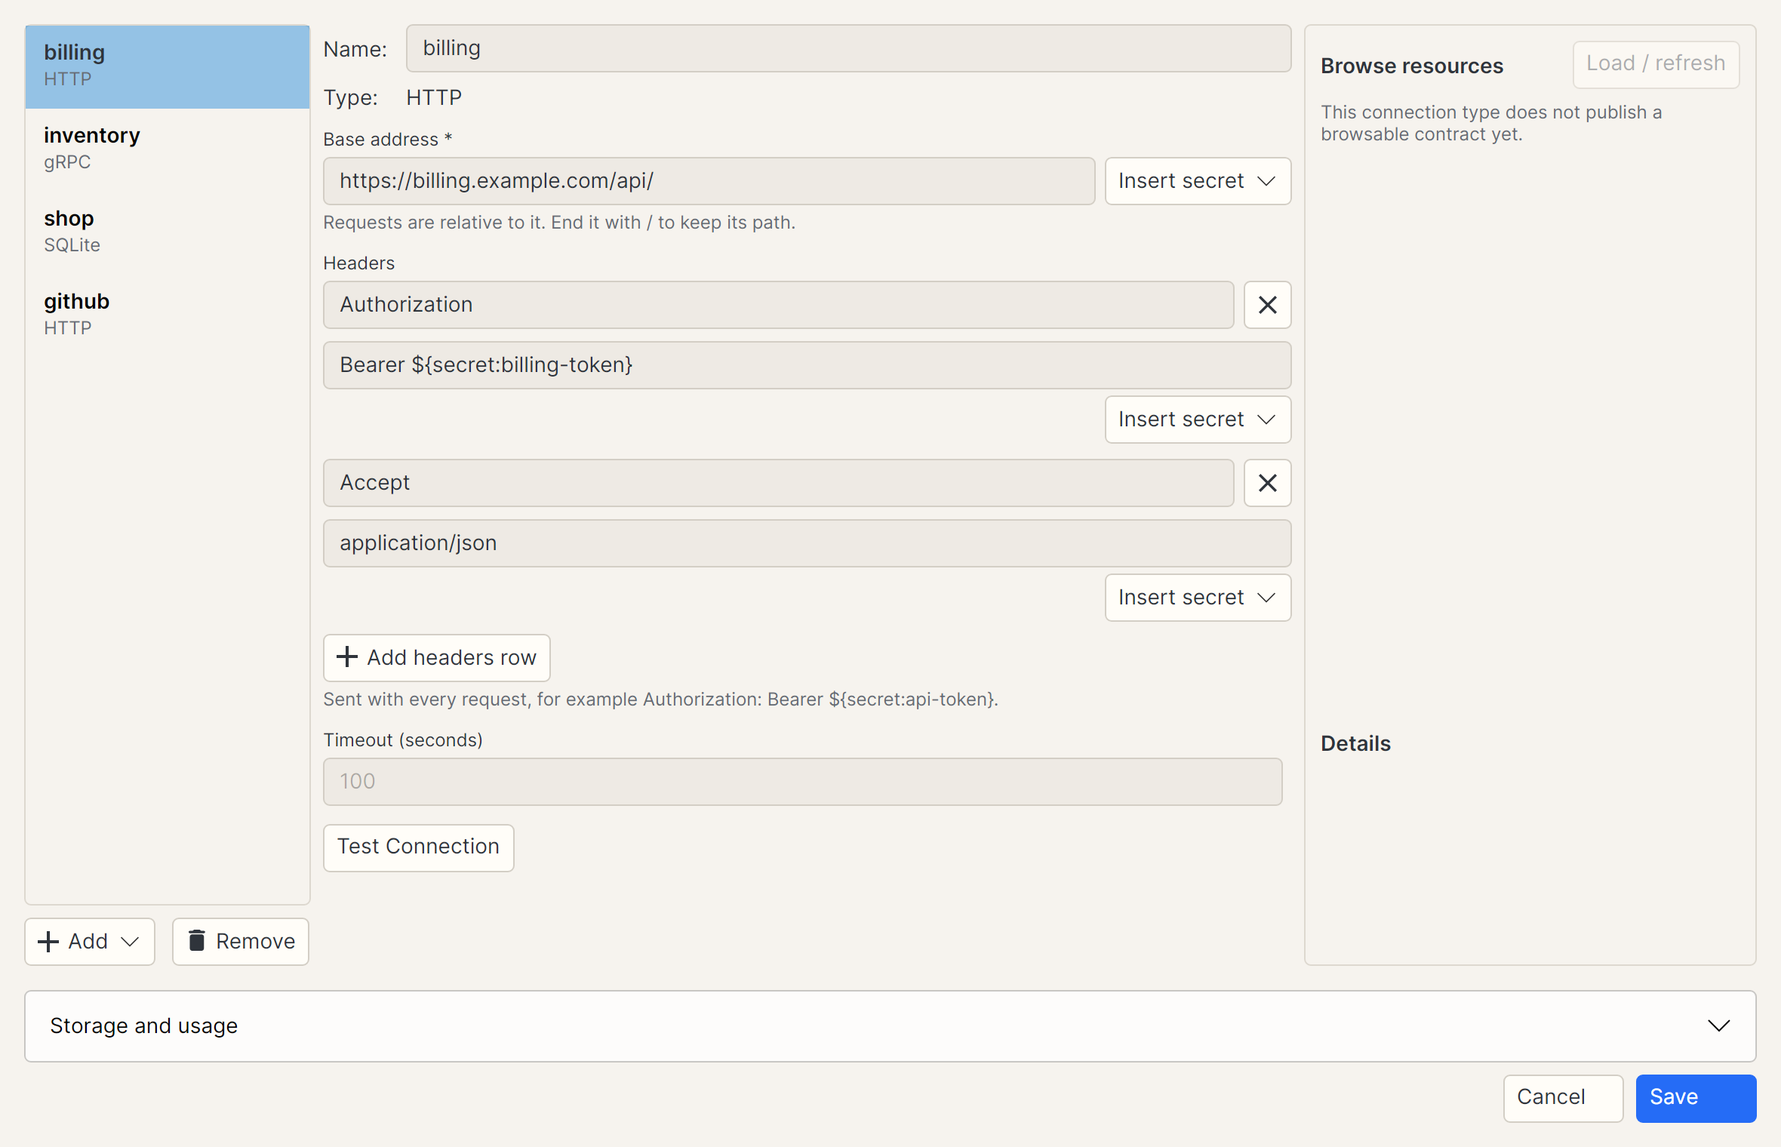
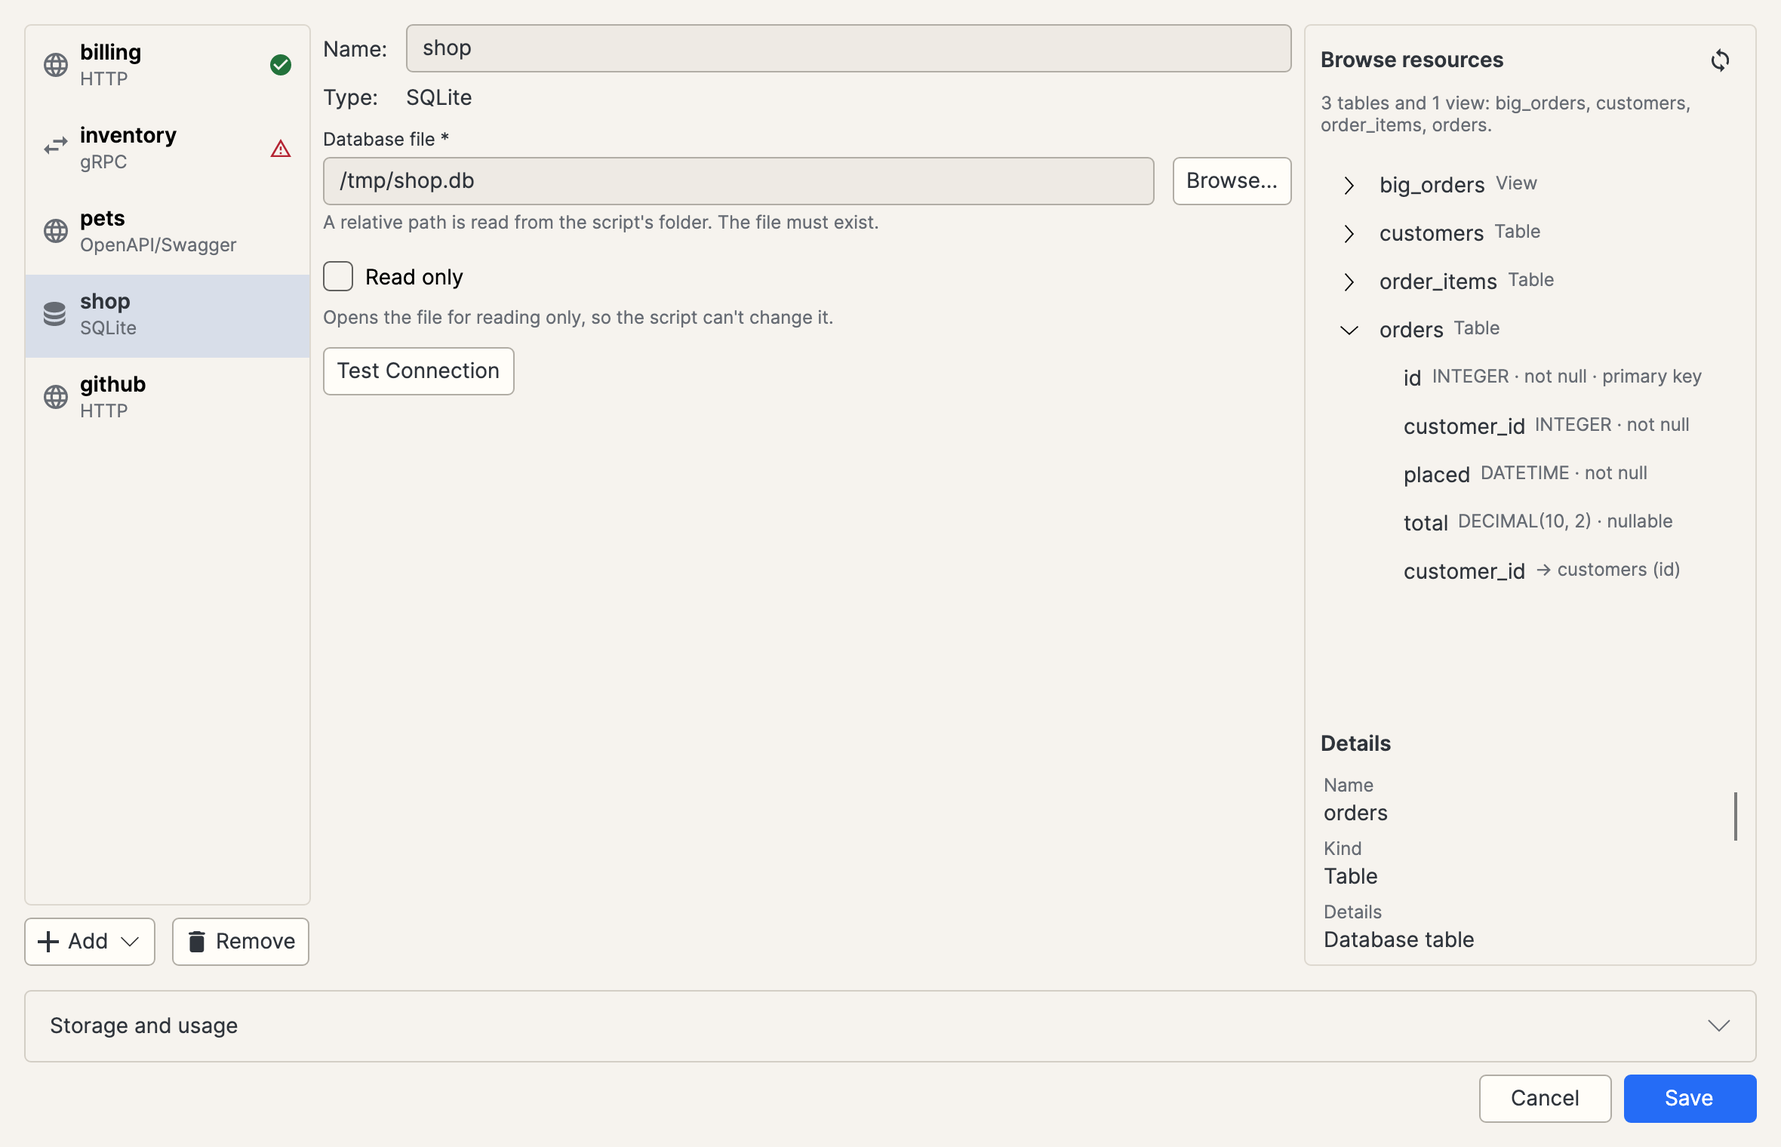
Document the secret key and the Connections window; refresh its screenshots
The Connections window screenshots show the type and test icons and the resource browser with the tables, columns, types and a foreign key of a
real database. The screenshot program builds again against the current Invoklet (namespaces, the Logging setting, the commands of the active tab,
the code fix margin) and its connections scenario covers the new window.

diff --git a/scripts/screenshots/Scenarios.cs b/scripts/screenshots/Scenarios.cs
@@ -12,6 +12,7 @@ using Invoklet.Format.MdRun;
 using Invoklet.Services.Connections;
 using Invoklet.Services.Secrets;
 using Invoklet.Services;
+using Invoklet.Services.Preferences;
 using Invoklet.Services.Scaling;
 using Invoklet.UserControls;
 using Invoklet.UserControls.Models;
@@ -107,7 +108,7 @@ public sealed class Ctx : IAsyncDisposable
 
     public async Task RunAndWait(EditorTabItemViewModel tab)
     {
-        Tabs.RunOrContinueActive();
+        Tabs.Commands.Bindings[KeyCommands.RunOrContinue]();
         await WaitUntil(() => !tab.EnableRunButton, 10000, "run start");
         await WaitUntil(() => tab.EnableRunButton, 120000, "run end");
         await Pump(1500);
@@ -232,7 +233,7 @@ public static class Scenarios
         AddTree(c);
         var (tab, ctrl) = await c.Open(c.AddScript("word-counts.inv", EditorCode));
         // Hide the output panel: this one is about the code.
-        c.Tabs.ToggleOutputPanelActive();
+        c.Tabs.Commands.Bindings[KeyCommands.ToggleOutputPanel]();
         await Pump(3000);
         // Continue the query on a new line to open completion: ".ThenBy(w => w.Word)" + "\n    .Ta;".
         var doc = ctrl.State.Editor.Document;
@@ -252,7 +253,7 @@ public static class Scenarios
         await using var c = await Ctx.Create(1100, 560);
         AddTree(c);
         var (tab, ctrl) = await c.Open(c.AddScript("word-counts.inv", EditorCode));
-        c.Tabs.ToggleOutputPanelActive();
+        c.Tabs.Commands.Bindings[KeyCommands.ToggleOutputPanel]();
         await Caret(ctrl, 4, 1);
         c.Window.KeyPress(Key.H, RawInputModifiers.Control, PhysicalKey.H, "h");
         await Pump(800);
@@ -266,12 +267,12 @@ public static class Scenarios
         await using var c = await Ctx.Create(1100, 640, p => p.CSharp.InlayHintsEnabled = false);
         AddTree(c);
         var (tab, ctrl) = await c.Open(c.AddExample("analyzer-diagnostics.inv"));
-        c.Tabs.ToggleOutputPanelActive();
+        c.Tabs.Commands.Bindings[KeyCommands.ToggleOutputPanel]();
         await Pump(4000);
         // The caret on the unknown JsonSerializer, and its lightbulb menu open.
         await Caret(ctrl, 1, 20);
         await Pump(3000);
-        var margin = ctrl.State.Editor.TextArea.LeftMargins.OfType<Invoklet.Avalonia.CodeTextEditor.CodeFixMargin>().First();
+        var margin = ctrl.State.Editor.TextArea.LeftMargins.OfType<Invoklet.Avalonia.CodeTextEditor.CodeFix.CodeFixMargin>().First();
         margin.ShowFixMenu(margin.Fixes);
         await Pump(1500);
         Capture(c.Window, "diagnostics.png");
@@ -285,21 +286,21 @@ public static class Scenarios
         tab.DebugModeEnabled = true;
         ctrl.State.Editor.AddBreakpoint(5);
         await Pump(300);
-        c.Tabs.RunOrContinueActive();
+        c.Tabs.Commands.Bindings[KeyCommands.RunOrContinue]();
         await WaitUntil(() => tab.IsPaused, 120000, "first stop");
         await Pump(1000);
         // Continue to the third iteration, so the values tell a story.
-        c.Tabs.RunOrContinueActive();
+        c.Tabs.Commands.Bindings[KeyCommands.RunOrContinue]();
         await WaitUntil(() => !tab.IsPaused, 20000, "resume");
         await WaitUntil(() => tab.IsPaused, 20000, "second stop");
-        c.Tabs.RunOrContinueActive();
+        c.Tabs.Commands.Bindings[KeyCommands.RunOrContinue]();
         await WaitUntil(() => !tab.IsPaused, 20000, "resume");
         await WaitUntil(() => tab.IsPaused, 20000, "third stop");
         await Pump(1500);
         await Caret(ctrl, 5, 9);
         await Pump(1000);
         Capture(c.Window, "debugging.png");
-        c.Tabs.CancelActive();
+        c.Tabs.Commands.Bindings[KeyCommands.Stop]();
         await WaitUntil(() => tab.EnableRunButton, 30000, "stop");
     }
 
@@ -308,7 +309,7 @@ public static class Scenarios
         await using var c = await Ctx.Create(1280, 720);
         AddTree(c);
         var (tab, ctrl) = await c.Open(c.AddExample("products-overview.inv"));
-        c.Tabs.ToggleOutputPanelActive();
+        c.Tabs.Commands.Bindings[KeyCommands.ToggleOutputPanel]();
         tab.TogglePreviewToSide();
         await Pump(2500);
         await Caret(ctrl, 10, 1);
@@ -361,6 +362,22 @@ public static class Scenarios
         await using var c = await Ctx.Create(1100, 700, sampleConnections: false);
         SampleSecrets(c.Root, out var secrets);
         var store = new FileConnectionStore(Path.GetFullPath(Path.Combine(c.Root, "..", "connections.json")));
+        // A real database, so that the browser on the right shows tables, columns, types and keys as a script would get them.
+        // A short path, as a user would have one, rather than the temporary folder the scenario runs in.
+        var shopDatabase = OperatingSystem.IsWindows() ? Path.GetFullPath(Path.Combine(c.Root, "..", "shop.db")) : "/tmp/shop.db";
+        File.Delete(shopDatabase);
+        using (var db = new Microsoft.Data.Sqlite.SqliteConnection($"Data Source={shopDatabase};Pooling=False"))
+        {
+            db.Open();
+            using var create = db.CreateCommand();
+            create.CommandText = """
+                CREATE TABLE customers (id INTEGER PRIMARY KEY, name TEXT NOT NULL, city TEXT, created DATETIME);
+                CREATE TABLE orders (id INTEGER PRIMARY KEY, customer_id INTEGER NOT NULL REFERENCES customers(id), placed DATETIME NOT NULL, total DECIMAL(10, 2));
+                CREATE TABLE order_items (order_id INTEGER NOT NULL REFERENCES orders(id), line INTEGER NOT NULL, product TEXT NOT NULL, qty INT NOT NULL, PRIMARY KEY (order_id, line));
+                CREATE VIEW big_orders AS SELECT id, customer_id, total FROM orders WHERE total > 100;
+                """;
+            create.ExecuteNonQuery();
+        }
         store.Save(
         [
             new MdRunConnection
@@ -379,8 +396,13 @@ public static class Scenarios
             },
             new MdRunConnection
             {
+                Name = "pets", Driver = "openapi",
+                Params = new(StringComparer.Ordinal) { ["baseAddress"] = MdRunValue.Of("https://petstore.example.com/v3/") },
+            },
+            new MdRunConnection
+            {
                 Name = "shop", Driver = "sqlite",
-                Params = new(StringComparer.Ordinal) { ["file"] = MdRunValue.Of("data/shop.db") },
+                Params = new(StringComparer.Ordinal) { ["file"] = MdRunValue.Of(shopDatabase) },
             },
             new MdRunConnection
             {
@@ -392,9 +414,23 @@ public static class Scenarios
         registry.Register(new HttpConnectionDriver());
         registry.Register(new Invoklet.Connectors.Grpc.GrpcConnectionDriver());
         registry.Register(new Invoklet.Connectors.Sqlite.SqliteConnectionDriver());
-        var window = new ConnectionsWindow(new ConnectionsWindowViewModel(store, registry, secrets)) { Width = 820, Height = 560 };
+        registry.Register(new OpenApiConnectionDriver());
+        var schemas = new ConnectionSchemas(registry, Path.GetFullPath(Path.Combine(c.Root, "..", "connection-schemas")), Invoklet.Languages.DotnetCommon.DotnetConnectionTools.Default, _ => null);
+        var model = new ConnectionsWindowViewModel(store, registry, secrets, schemas);
+        // The outcome of the last test of two of them, as the list shows it.
+        model.Connections.First(x => x.Name == "billing").TestResult = "Success: The server answered 200 OK.";
+        model.Connections.First(x => x.Name == "inventory").TestResult = "Failed: Could not reach the server: connection refused.";
+        model.SelectedConnection = model.Connections.First(x => x.Name == "shop");
+        var window = new ConnectionsWindow(model) { Width = 1180, Height = 700 };
         window.Show(c.Window);
-        await Pump(1500);
+        await Pump(3000);
+        // The tables open, so that the columns, their types and the keys show.
+        var tree = window.FindControl<TreeView>("ResourceTree")!;
+        foreach (var name in new[] { "orders" })
+            if (model.Resources.FirstOrDefault(r => r.Name == name) is { } table && tree.ContainerFromItem(table) is TreeViewItem node)
+                node.IsExpanded = true;
+        model.SelectedResource = model.Resources.FirstOrDefault(r => r.Name == "orders");
+        await Pump(800);
         Capture(window, "connections.png");
         window.Close();
     }
@@ -441,7 +477,7 @@ public static class Scenarios
         ], null);
         c.Services.GetRequiredService<ISecretStore>().Save([new Secret("billing-token", "t0k")], null);
         var (tab, ctrl) = await c.Open(c.AddScript("invoices.inv", ConnectionScript));
-        c.Tabs.ToggleOutputPanelActive();
+        c.Tabs.Commands.Bindings[KeyCommands.ToggleOutputPanel]();
 
         var window = c.Services.GetRequiredService<DependenciesWindow>();
         window.Width = 1000;

diff --git a/scripts/screenshots/Program.cs b/scripts/screenshots/Program.cs
@@ -9,26 +9,26 @@ using Avalonia.Threading;
 using Avalonia.VisualTree;
 using Microsoft.Extensions.DependencyInjection;
 using Microsoft.Extensions.Logging;
-using RunPad;
-using RunPad.Avalonia.Themes;
-using RunPad.Contracts;
-using RunPad.Languages.CSharp;
-using RunPad.Languages.DotnetCommon;
-using RunPad.Languages.DotnetCommon.Sdk;
-using RunPad.Languages.VB;
-using RunPad.Services;
-using RunPad.Services.BuildCache;
-using RunPad.Services.Preferences;
-using RunPad.Services.Recovery;
-using RunPad.Services.Scaling;
-using RunPad.Services.Setup;
-using RunPad.UserControls;
-using RunPad.Windows;
-using RunPad.Windows.Models;
+using Invoklet;
+using Invoklet.Avalonia.Themes;
+using Invoklet.Contracts;
+using Invoklet.Languages.CSharp;
+using Invoklet.Languages.DotnetCommon;
+using Invoklet.Languages.DotnetCommon.Sdk;
+using Invoklet.Languages.VB;
+using Invoklet.Services;
+using Invoklet.Services.BuildCache;
+using Invoklet.Services.Preferences;
+using Invoklet.Services.Recovery;
+using Invoklet.Services.Scaling;
+using Invoklet.Services.Setup;
+using Invoklet.UserControls;
+using Invoklet.Windows;
+using Invoklet.Windows.Models;
 
 namespace Shots;
 
-// RunPad's own App (its App.axaml styles and resources) without its composition root, which
+// Invoklet's own App (its App.axaml styles and resources) without its composition root, which
 // would read the real settings file and Documents folder.
 public sealed class ShotsApp : App
 {
@@ -45,6 +45,7 @@ public sealed class MemoryPrefs : IPreferencesService
     public LayoutSettings Layout { get; } = new();
     public SessionSettings Session { get; } = new();
     public ExperimentalSettings Experimental { get; } = new();
+    public LoggingSettings Logging { get; } = new();
     public Dictionary<string, bool> System { get; } = [];
     public void Save() => Changed?.Invoke();
     public event Action? Changed;
@@ -68,7 +69,7 @@ public static class Program
     // Usage: dotnet run [scenario[-light] ...]; with no arguments, every scenario in both themes.
     public static int Main(string[] args)
     {
-        // English number and date formats in RunPad itself and in the scripts it starts.
+        // English number and date formats in Invoklet itself and in the scripts it starts.
         var english = System.Globalization.CultureInfo.GetCultureInfo("en-US");
         System.Globalization.CultureInfo.DefaultThreadCurrentCulture = english;
         System.Globalization.CultureInfo.DefaultThreadCurrentUICulture = english;
@@ -79,7 +80,7 @@ public static class Program
         if (args is ["--one", var one]) return RunOne(one);
 
         // Each scenario in a process of its own: the interface scale is process-wide state, and
-        // a fresh RunPad per screenshot keeps them independent of each other.
+        // a fresh Invoklet per screenshot keeps them independent of each other.
         var names = args.Length > 0 ? args : Scenarios.All.SelectMany(n => new[] { n, n + "-light" }).ToArray();
         var self = Environment.ProcessPath!;
         var failed = 0;
@@ -124,7 +125,7 @@ public static class Program
         services.AddSingleton<IFileSystemService>(sp => new FileSystemService(sp.GetRequiredService<ILogger<FileSystemService>>(), root));
         services.AddSingleton<ISdkProvider, DotnetSdkProvider>();
         services.AddSingleton<IRuntimeReferenceLocator, DotnetRuntimeReferenceLocator>();
-        services.AddSingleton<INuGetSourceStore, RunPadNuGetConfigStore>();
+        services.AddSingleton<INuGetSourceStore, InvokletNuGetConfigStore>();
         services.AddSingleton<IPackageSearchService, NuGetPackageSearchService>();
         services.AddSingleton<ILocalPackageCacheService, LocalPackageCacheService>();
         services.AddSingleton<IWindowService, WindowService>();
@@ -152,21 +153,21 @@ public static class Program
         services.AddTransient<DependenciesWindow>();
         services.AddSingleton<EditorTabsControl>();
         // Connections and secrets in a temporary folder next to the scripts, with the built-in drivers.
-        services.AddSingleton<RunPad.Services.Secrets.ISecretStore>(_ => new RunPad.Services.Secrets.FileSecretStore(Path.GetFullPath(Path.Combine(root, "..", "secrets.json"))));
-        services.AddSingleton<RunPad.Services.Connections.IConnectionStore>(_ => new RunPad.Services.Connections.FileConnectionStore(Path.GetFullPath(Path.Combine(root, "..", "connections.json"))));
+        services.AddSingleton<Invoklet.Services.Secrets.ISecretStore>(_ => new Invoklet.Services.Secrets.FileSecretStore(Path.GetFullPath(Path.Combine(root, "..", "secrets.json"))));
+        services.AddSingleton<Invoklet.Services.Connections.IConnectionStore>(_ => new Invoklet.Services.Connections.FileConnectionStore(Path.GetFullPath(Path.Combine(root, "..", "connections.json"))));
         services.AddSingleton(_ =>
         {
-            var drivers = new RunPad.Contracts.Connections.ConnectionDriverRegistry();
-            drivers.Register(new RunPad.Connectors.Http.HttpConnectionDriver());
-            drivers.Register(new RunPad.Connectors.Grpc.GrpcConnectionDriver());
-            drivers.Register(new RunPad.Connectors.Sqlite.SqliteConnectionDriver());
+            var drivers = new Invoklet.Contracts.Connections.ConnectionDriverRegistry();
+            drivers.Register(new Invoklet.Connectors.Http.HttpConnectionDriver());
+            drivers.Register(new Invoklet.Connectors.Grpc.GrpcConnectionDriver());
+            drivers.Register(new Invoklet.Connectors.Sqlite.SqliteConnectionDriver());
             return drivers;
         });
         // The sidebar's Connections section, over the same list.
-        services.AddSingleton(sp => new RunPad.UserControls.Models.ConnectionNavigationViewModel(
-            sp.GetRequiredService<RunPad.Services.Connections.IConnectionStore>(),
-            sp.GetRequiredService<RunPad.Contracts.Connections.ConnectionDriverRegistry>(),
-            secrets: sp.GetRequiredService<RunPad.Services.Secrets.ISecretStore>()));
+        services.AddSingleton(sp => new Invoklet.UserControls.Models.ConnectionNavigationViewModel(
+            sp.GetRequiredService<Invoklet.Services.Connections.IConnectionStore>(),
+            sp.GetRequiredService<Invoklet.Contracts.Connections.ConnectionDriverRegistry>(),
+            secrets: sp.GetRequiredService<Invoklet.Services.Secrets.ISecretStore>()));
         services.AddSingleton<Func<DependenciesWindow>>(sp => () => sp.GetRequiredService<DependenciesWindow>());
         services.AddSingleton<Func<PreferencesWindow>>(sp => () => sp.GetRequiredService<PreferencesWindow>());
         return services.BuildServiceProvider();

diff --git a/docs/site/results.md b/docs/site/results.md
@@ -219,6 +219,11 @@ readable only by you, like `~/.pgpass`. A script asking for a secret that isn't 
 reads the same store. To use another file, for example on a build server, set the
 `RUNPAD_SECRETS_FILE` environment variable to its path.
 
+On macOS and Linux the values are encrypted with a key kept in the system keychain (Keychain or the Secret Service), which may ask you to
+unlock it. Invoklet touches the keychain only when something needs a value: starting the program, running a script that never mentions
+`Util.GetSecret` or `Util.SetSecret` and listing the names of your secrets (in the Connections windows, say) do not. A script that reaches a
+secret in a way its own text does not show, through a library it references, gets no key: put a `Util.GetSecret` call in the script.
+
 ## Sidebar navigation
 
 The workspace sidebar is organized into three collapsible sections:
@@ -240,14 +245,21 @@ secrets, environment variables or unavailable/stale contracts. Use **Refresh** o
 ## Connections
 
 **Tools → Connections** keeps your own connections in one window: HTTP APIs, gRPC servers and
-SQLite databases, with other databases to follow. **Add** creates one of a type; the form shows
+SQLite databases and OpenAPI/Swagger APIs, with other databases to follow. **Add** creates one of a type; the form shows
 that type's settings. For an HTTP API they are the base address, headers sent with every request
 and a timeout; for a gRPC server, its host and port (with a **Use SSL** checkbox) and metadata sent with every call; for SQLite, the
-database file.
+database file (with a **Browse...** button), and for OpenAPI/Swagger the same as for HTTP.
+
+Each connection shows the icon of its type, and the outcome of its last **Test Connection** as an icon: a check mark, a warning (hover for the
+answer) or a spinner while it runs. The panel on the right, **Browse resources**, shows what the connection offers: for a SQLite database the
+tables and views with their columns (type, `null` or `not null`, primary key) and foreign keys, read as soon as you select the connection (for a
+path relative to a script, choose that script's folder first); for a gRPC server its services and their methods, with the request and response
+messages and whether they stream; for an OpenAPI/Swagger API its operations by tag, each with parameters, request body and answers, and its models.
+Servers are read when you press the reload button or **Test Connection**, which loads the contract instead of listing it in the answer.
 
 <figure markdown="span">
-  [![The Connections window: billing (HTTP), inventory (gRPC), shop (SQLite) and github; billing shows its base address and an Authorization header that names a secret](assets/screenshots/connections_light.png#only-light)](assets/screenshots/connections_light.png "Open full-size screenshot")
-  [![The Connections window: billing (HTTP), inventory (gRPC), shop (SQLite) and github; billing shows its base address and an Authorization header that names a secret](assets/screenshots/connections.png#only-dark)](assets/screenshots/connections.png "Open full-size screenshot")
+  [![The Connections window: billing, inventory, pets, shop and github with their type icons and test outcomes; shop (SQLite) selected, its tables, columns with types and a foreign key in the Browse resources panel](assets/screenshots/connections_light.png#only-light)](assets/screenshots/connections_light.png "Open full-size screenshot")
+  [![The Connections window: billing, inventory, pets, shop and github with their type icons and test outcomes; shop (SQLite) selected, its tables, columns with types and a foreign key in the Browse resources panel](assets/screenshots/connections.png#only-dark)](assets/screenshots/connections.png "Open full-size screenshot")
 </figure>
 
 Write a password or token as `${secret:name}` (or pick it from **Insert secret**): the value stays

diff --git a/docs/site/reference.md b/docs/site/reference.md
@@ -16,7 +16,7 @@ shortcut.
 | **File** | New File, New RPad File, Open..., Quick Open..., Recent Files, Open Text File..., Import .linq Query..., Save, Save As..., Export Results as HTML..., Revert to Saved, Close Tab, Exit (++cmd+q++ on macOS) |
 | **Edit** | Undo, Redo, Cut, Copy, Paste, Select All, Format Document, Format Selection, Go to Line..., Resolve All Usings |
 | **View** | Toggle File Tree, Toggle Output Panel, Markdown Preview, Markdown Preview to the Side, Zoom In, Zoom Out, Reset Zoom |
-| **Run** | Run / Continue, Stop, Execute Selection, Stop and Run Again, Debug Mode, Step Over, Step Into, Step Out, Pause, Run to Cursor |
+| **Run** | Run / Continue, Stop, Execute Selection, Clear Results, Stop and Run Again, Debug Mode, Step Over, Step Into, Step Out, Pause, Run to Cursor |
 | **Tools** | Dependencies..., Assembly Explorer..., Connections..., Secret Store..., Preferences... |
 | **Help** | User Guide, Release Notes, Report an Issue, About RunPad |
 

diff --git a/docs/GITHUB-PAGES.md b/docs/GITHUB-PAGES.md
@@ -140,6 +140,7 @@ or a feature changes, adjust its scenario in `Scenarios.cs` and the image's alt 
 | `preferences` | `preferences` | Reference | Preferences → Interface |
 | `dependencies` | `dependencies` | Packages and references | Online search for Humanizer, Humanizer.Core selected; the local cache filtered to Humanizer |
 | `explorer` | `assembly-explorer` | Assembly Explorer | System.Linq.dll searched for `Enumerable.Where`, the first result decompiled |
+| `connections` | `connections` | Connections | Tools → Connections: five connections with test icons, `shop` (SQLite) selected and its orders table open in Browse resources |
 
 The interface uses Invoklet's own themes, Invoklet Midnight and Invoklet Warm Light, with the
 editor's default Dark+ and Light+ colors. The window chrome is Invoklet's own Windows title bar; dialogs are captured without the
